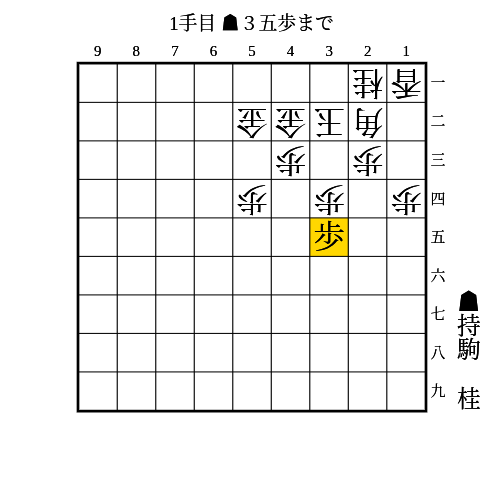
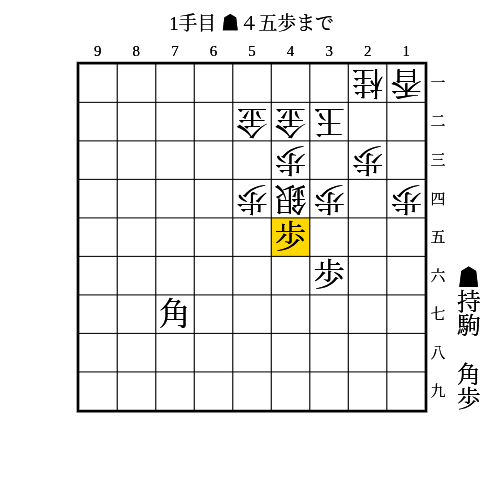
update

diff --git a/攻め/囲い崩し/天守閣美濃.md b/攻め/囲い崩し/天守閣美濃.md
@@ -8,3 +8,53 @@
 
 - △同銀なら▲21飛△32玉▲23角△21玉▲41角成
     - 次に▲32銀からの詰めろがあり、受けても▲23銀や金があったり、52の金が質駒になっていたりして厳しい
+
+---
+
+(2)
+
+![](./resources/天守閣美濃_2.png)
+
+条件: 角が11を睨んでいる AND 45に歩がある AND 37に桂が跳ねている AND 33に相手の銀がある AND 25に歩が打てるか突ける
+
+- △同歩なら▲同桂
+    - △22銀以外なら▲11角成
+    - △22銀なら▲24歩
+        - △同玉なら▲22角成
+        - △12玉なら▲15歩から端攻めが厳しい
+- 放置なら▲24歩△同玉▲25歩で拠点が作れる
+
+---
+
+(3)
+
+![](./resources/天守閣美濃_3.png)
+
+条件: 持ち駒に角+歩 AND 45に駒が利いている AND 35に歩が打てるか突ける
+
+- △同歩や放置なら▲34歩
+    - △同玉なら▲22角
+
+---
+
+(4)
+
+![](./resources/天守閣美濃_4.png)
+
+条件: 41金に飛車が利いている AND 31に角が利いている
+
+- △同銀なら▲31角成
+    - 次に▲41馬や▲22金や▲21馬が受けにくい
+
+---
+
+(5)
+
+![](./resources/天守閣美濃_5.png)
+
+条件: 角が11を睨んでいる AND 37に桂が跳ねている AND 25に歩が打てるか突ける AND 44に相手の銀がいる AND 46歩56銀型
+
+- △同歩なら▲同桂
+    - 次に▲45歩
+        - 銀が避けたら▲11角成
+        - △55銀なら▲同銀△同歩▲同角で11香と73桂の両取り

diff --git a/攻め/囲い崩し/美濃.md b/攻め/囲い崩し/美濃.md
@@ -156,3 +156,57 @@
         - △92玉なら▲82金
         - △84玉なら▲75金
     - 82を埋めたり94を受けられたりしても▲94歩で良い
+
+---
+
+(11)
+
+![](./resources/美濃_11.png)
+
+高美濃に有効
+
+条件: 持ち駒に桂+香+（銀 OR 角） AND 35に相手の駒が利いていない AND 1段目に飛車がいる
+
+- △74金なら▲63桂成△同銀▲61飛成
+- △53金なら▲63香
+    - △同金や△同銀なら精算して▲61飛成
+    - △71金なら▲62香成△同金▲71銀
+- △62金引なら▲63香
+    - △同金や△同銀なら精算して▲61飛成
+    - 放置なら▲62香成△同金▲71銀
+
+---
+
+(12)
+
+![](./resources/美濃_12.png)
+
+高美濃に有効
+
+条件: 持ち駒に香+角 AND 2段目に飛車がいる
+
+- △53金なら▲63香
+    - △同金なら▲同角成
+    - △71金なら▲62香成
+- △62金引なら▲63香
+    - △同金や△同銀なら▲同角成
+- 放置なら▲63角成
+
+---
+
+(13)
+
+![](./resources/美濃_13.png)
+
+どの美濃にも有効
+
+条件: 持ち駒に歩3枚 AND 角が93に利いている AND 相手玉が71にいる
+
+- △同歩なら▲93歩
+    - △同桂なら▲94歩
+    - △同香なら▲92歩
+        - △82玉なら▲91歩成△同玉▲93角成△同桂▲94歩
+            - 受けられても取った香を足していけば突破できる
+        - 放置なら▲91歩成
+    - 放置なら▲92歩成
+- 放置なら△94歩

diff --git a/攻め/囲い崩し/エルモ囲い.md b/攻め/囲い崩し/エルモ囲い.md
@@ -24,3 +24,40 @@
 - 角が22にいなくても厳しい
 
 ▲35歩△同歩▲34桂を狙う順もあるが、35の歩を拠点に反撃されやすいので、控えて打てるときは控えて打ったほうが良い。
+
+---
+
+(3)
+
+![](./resources/エルモ囲い_3.png)
+
+条件: 持ち駒に桂 AND 1段目に飛車がいる
+
+- 少なくとも銀桂交換できる
+
+---
+
+(4)
+
+![](./resources/エルモ囲い_4.png)
+
+条件: 持ち駒に銀+桂 AND 1段目か2段目に飛車がいる
+
+- 次に▲34銀〜▲35桂で23と43を同時に受けにくい
+    - ▲34銀自体も受けにくい
+
+銀は持ち駒からでなくても67〜56〜45〜34を狙う方法もある。  
+31に金があることで△31桂と受けられないのを突いた攻め。
+
+---
+
+(5)
+
+![](./resources/エルモ囲い_5.png)
+
+条件: 持ち駒に歩 AND 1段目か2段目に飛車がいる AND 相手が5筋に歩を打てない
+
+- 次に▲53歩成が厳しい
+
+6筋に駒を打って飛車の利きを止めてきたり、53に利く駒を増やしてきたりした場合はこちらも53に利く駒を増やしていけば良い。  
+飛車が2段目のときは▲53歩でも良い。こちらは相手が5筋に歩を打てる場合でも使える。

diff --git a/攻め/囲い崩し/金無双.md b/攻め/囲い崩し/金無双.md
@@ -76,23 +76,13 @@
 - 次の▲34桂が受けにくい
     - 角がいなくても金に当てるだけで有効
 
+▲35歩△同歩▲34桂を狙う順もあるが、35の歩を拠点に反撃されやすいので、控えて打てるときは控えて打ったほうが良い。
+
 ---
 
 (7)
 
 ![](./resources/金無双_7.png)
-
-条件: 持ち駒に桂
-
-- △同歩なら▲34桂
-    - 角がいなくても金に当てるだけで有効
-- 放置なら▲34歩〜▲45桂で33に駒を打ち込むのが厳しい
-
----
-
-(8)
-
-![](./resources/金無双_8.png)
 
 条件: 持ち駒に歩+角
 
@@ -103,9 +93,9 @@
 
 ---
 
-(9)
+(8)
 
-![](./resources/金無双_9.png)
+![](./resources/金無双_8.png)
 
 条件: 持ち駒に歩2枚+飛 AND 端を突き合っている
 
@@ -117,9 +107,9 @@
 
 ---
 
-(10)
+(9)
 
-![](./resources/金無双_10.png)
+![](./resources/金無双_9.png)
 
 条件: 持ち駒に歩2枚+銀 AND 2段目に飛車がいる AND 5筋に歩が打てる
 
